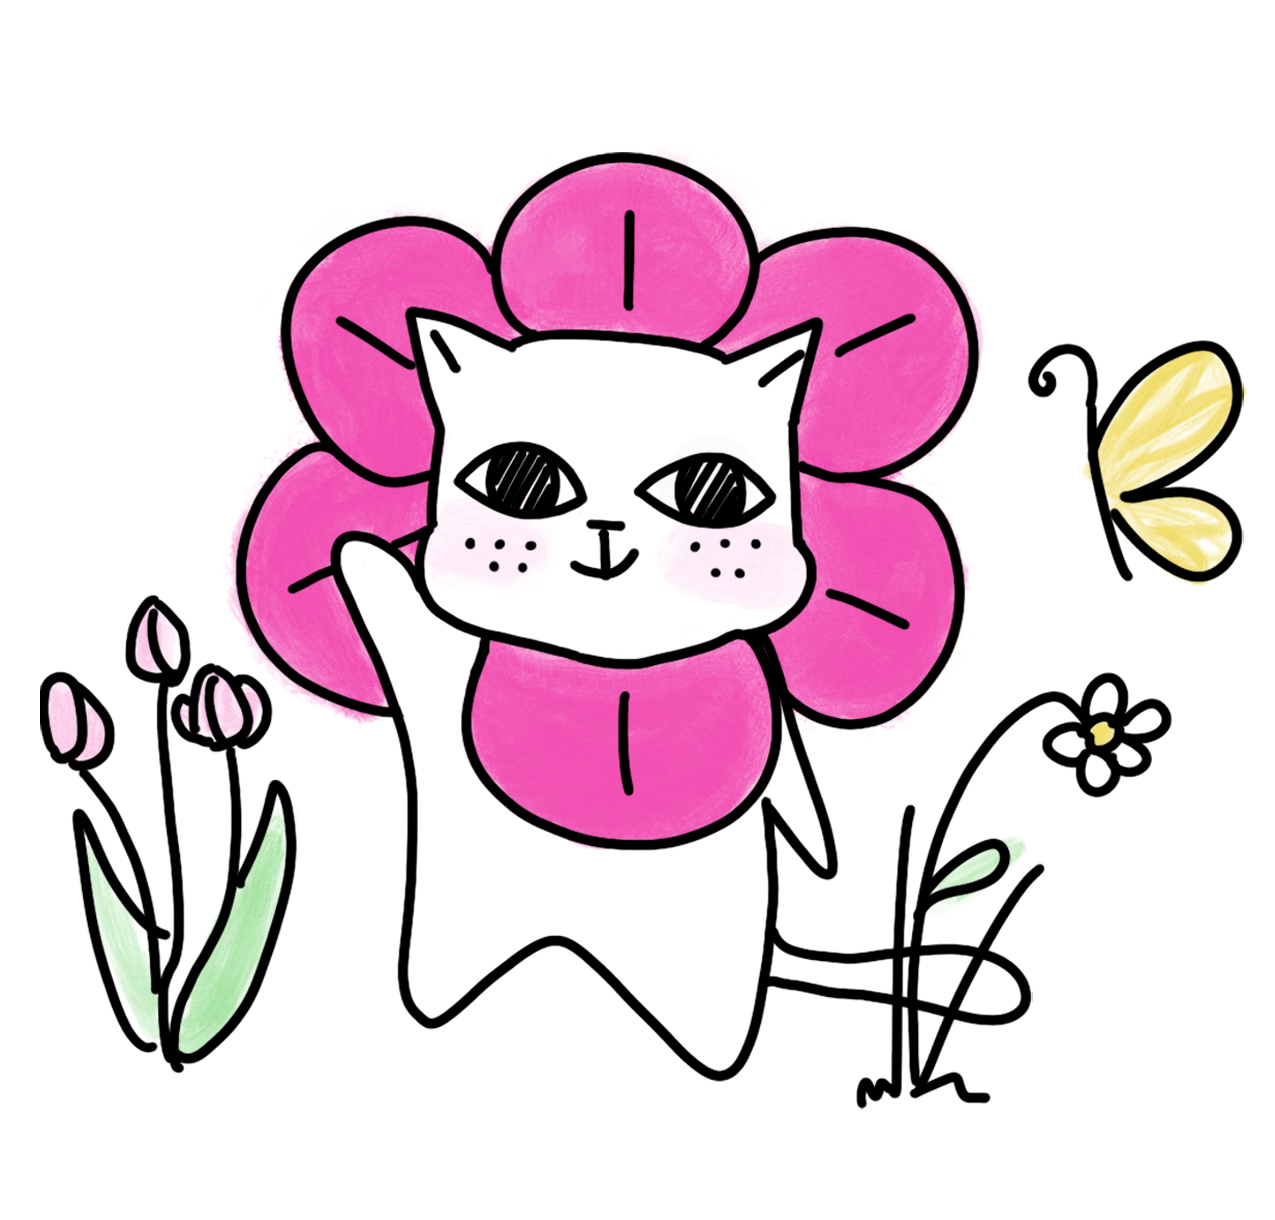
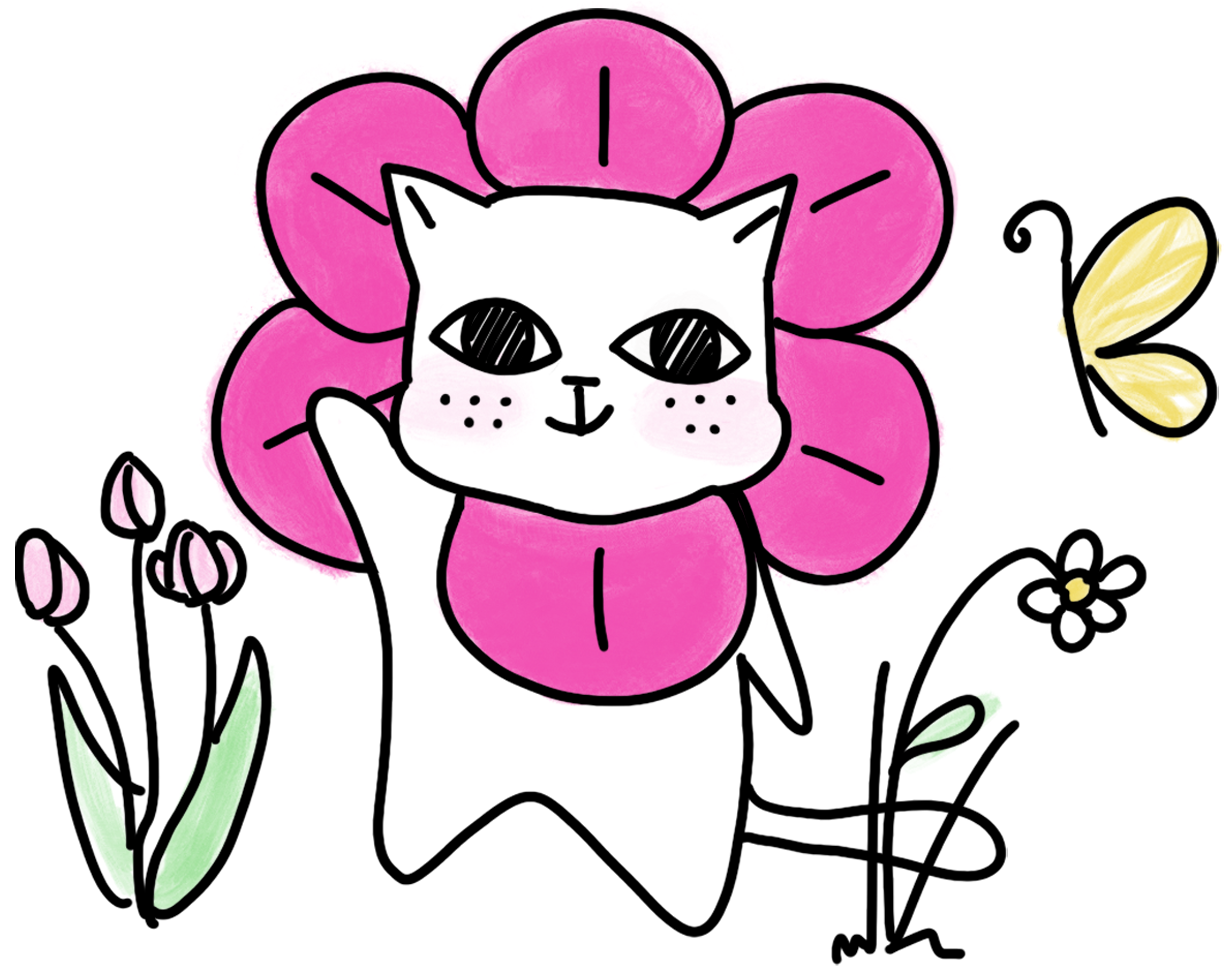
contact

diff --git a/about/about.html b/about/about.html
@@ -42,7 +42,7 @@
       }
 
       .contact-modal__panel {
-        width: min(90vw, 28rem);
+        width: min(92vw, 40rem) max(192vw, 80rem);
         border-radius: 1rem;
         background: var(--ui-color-n-000, #fdfcf7);
         color: var(--ui-color-n-025, #4d5051);
@@ -50,6 +50,13 @@
         padding: 2.25rem 2rem 1.75rem;
         position: relative;
         line-height: 1.5;
+      }
+
+      .contact-modal__header {
+        display: flex;
+        align-items: center;
+        gap: 0.75rem;
+        margin-bottom: 1.75rem;
       }
 
       .contact-modal__close {
@@ -64,15 +71,33 @@
       }
 
       .contact-modal__title {
-        margin-top: 0;
-        margin-bottom: 1.5rem;
-        font-size: 1.8rem;
+        margin: 0;
+        font-weight: 300;
+        font-size: 3rem;
+      }
+
+      .contact-modal__badge {
+        width: 1.75rem;
+        height: 1.75rem;
+        flex-shrink: 0;
       }
 
       .contact-modal__subtitle {
         margin-top: 0;
         margin-bottom: 1.25rem;
         color: var(--ui-color-n-300, #6b6b6b);
+      }
+
+      .contact-modal__content {
+        display: flex;
+        align-items: flex-start;
+        justify-content: space-between;
+        gap: 1.75rem;
+      }
+
+      .contact-modal__details {
+        flex: 1;
+        min-width: 0;
       }
 
       .contact-modal__list {
@@ -92,12 +117,15 @@
 
       .contact-modal__label {
         display: inline-flex;
-        justify-content: flex-start;
-        gap: 0rem;
+        align-items: baseline;
+        gap: 0;
         font-size: 0.75rem;
-        letter-spacing: 0.15em;
         text-transform: uppercase;
         color: var(--ui-color-n-300, #6b6b6b);
+      }
+
+      .contact-modal__label-text {
+        letter-spacing: 0.15em;
       }
 
       .contact-modal__icon {
@@ -105,16 +133,55 @@
         height: 1rem;
         flex-shrink: 0;
         color: currentColor;
+        margin-left: 0.5rem;
+        align-self: center;
+        transform: translateY(-0.1rem);
       }
 
       .contact-modal__value a {
+        font-family: var(--ui-typography-reeenie-beanie, "Reenie Beanie", cursive);
         color: inherit;
         font-weight: 600;
+        font-size: 2rem;
+        border-radius: 0.35rem;
+        padding: 0 0.25rem;
+        transition: background 0.2s ease, color 0.2s ease, box-shadow 0.2s ease;
+      }
+
+      .contact-modal__value a:hover,
+      .contact-modal__value a:focus-visible {
+        background: rgba(255, 223, 88, 0.4);
+        color: #5a4300;
+        box-shadow: 0 0 5px rgba(255, 223, 88, 0.9);
+        text-decoration: none;
+      }
+
+      .contact-modal__figure {
+        flex-shrink: 0;
+        margin: 0;
+        margin-bottom: -1rem;
+      }
+
+      .contact-modal__figure img {
+        display: block;
+        width: 14.5rem;
+        max-width: 32vw;
+        height: auto;
       }
 
       @media (max-width: 37.5rem) {
         .contact-modal__panel {
           padding: 1.75rem 1.5rem 1.5rem;
+        }
+        .contact-modal__content {
+          flex-direction: column;
+          align-items: center;
+        }
+        .contact-modal__details {
+          width: 100%;
+        }
+        .contact-modal__figure img {
+          width: min(70vw, 14rem);
         }
       }
     </style>
@@ -279,43 +346,51 @@
     <div id="contactModal" class="contact-modal" aria-hidden="true">
       <div class="contact-modal__panel" role="dialog" aria-modal="true" aria-labelledby="contactModalTitle">
         <button type="button" class="contact-modal__close" aria-label="Close contact panel" data-contact-close>&times;</button>
-        <h2 class="contact-modal__title" id="contactModalTitle">CONTACT ME</h2>
-        <!-- <p class="contact-modal__subtitle">Reach out directly any time—happy to chat about collaboration, research, or studio work.</p> -->
-        <ul class="contact-modal__list">
-          <li class="contact-modal__item">
-            <span class="contact-modal__label">
-              <span>Email</span>
-              <svg class="contact-modal__icon" viewBox="0 0 24 24" aria-hidden="true">
-                <path fill="currentColor" d="M3 6c0-1.1.9-2 2-2h14c1.1 0 2 .9 2 2v12c0 1.1-.9 2-2 2H5c-1.1 0-2-.9-2-2V6zm2 0v.01L12 12l7-5.99V6H5zm14 12V9.24l-6.35 4.56a1.5 1.5 0 0 1-1.3.2c-.16-.05-.32-.12-.47-.23L5 9.24V18h14z"/>
-              </svg>
-            </span>
-            <span class="contact-modal__value" data-contact-focus>
-              <a href="mailto:alyssa2.suh@gmail.com">alyssa2.suh@gmail.com</a>
-            </span>
-          </li>
-          <li class="contact-modal__item">
-            <span class="contact-modal__label">
-              <span>Phone</span>
-              <svg class="contact-modal__icon" viewBox="0 0 24 24" aria-hidden="true">
-                <path fill="currentColor" d="M6.62 10.79a15.5 15.5 0 0 0 6.59 6.59l2.2-2.2a1.5 1.5 0 0 1 1.45-.39c1.6.4 3.32.62 5.14.62c.83 0 1.5.67 1.5 1.5V21c0 .83-.67 1.5-1.5 1.5C9.16 22.5 1.5 14.84 1.5 4.5C1.5 3.67 2.17 3 3 3h3.29c.83 0 1.5.67 1.5 1.5c0 1.82.22 3.54.62 5.14a1.5 1.5 0 0 1-.39 1.45l-2.2 2.2z"/>
-              </svg>
-            </span>
-            <span class="contact-modal__value">
-              <a href="tel:+1-740-731-2524">(740) 731-2524</a>
-            </span>
-          </li>
-          <li class="contact-modal__item">
-            <span class="contact-modal__label">
-              <span>LinkedIn</span>
-              <svg class="contact-modal__icon" viewBox="0 0 24 24" aria-hidden="true">
-                <path fill="currentColor" d="M4.98 3.5c0 1.38-1.11 2.5-2.48 2.5C1.11 6 0 4.88 0 3.5S1.11 1 2.5 1s2.48 1.12 2.48 2.5zM.5 8h4V23h-4V8zm7.5 0h3.83v2.02h.05c.53-1 1.83-2.05 3.77-2.05c4.03 0 4.78 2.68 4.78 6.17V23h-4v-7.39c0-1.76-.03-4.02-2.45-4.02c-2.45 0-2.83 1.91-2.83 3.89V23h-4V8z"/>
-              </svg>
-            </span>
-            <span class="contact-modal__value">
-              <a href="https://www.linkedin.com/in/alyssasuh/" target="_blank" rel="noopener">linkedin.com/in/alyssasuh</a>
-            </span>
-          </li>
-        </ul>
+        <div class="contact-modal__header">
+          <h2 class="contact-modal__title" id="contactModalTitle">CONTACT ME</h2>
+        </div>
+        <div class="contact-modal__content">
+          <div class="contact-modal__details">
+            <ul class="contact-modal__list">
+              <li class="contact-modal__item">
+                <span class="contact-modal__label">
+                  <span class="contact-modal__label-text">Email</span>
+                  <svg class="contact-modal__icon" viewBox="0 0 24 24" aria-hidden="true">
+                    <path fill="currentColor" d="M3 6c0-1.1.9-2 2-2h14c1.1 0 2 .9 2 2v12c0 1.1-.9 2-2 2H5c-1.1 0-2-.9-2-2V6zm2 0v.01L12 12l7-5.99V6H5zm14 12V9.24l-6.35 4.56a1.5 1.5 0 0 1-1.3.2c-.16-.05-.32-.12-.47-.23L5 9.24V18h14z"/>
+                  </svg>
+                </span>
+                <span class="contact-modal__value" data-contact-focus>
+                  <a href="mailto:alyssa2.suh@gmail.com">alyssa2.suh@gmail.com</a>
+                </span>
+              </li>
+              <li class="contact-modal__item">
+                <span class="contact-modal__label">
+                  <span class="contact-modal__label-text">Phone</span>
+                  <svg class="contact-modal__icon" viewBox="0 0 24 24" aria-hidden="true">
+                    <path fill="currentColor" d="M6.62 10.79a15.5 15.5 0 0 0 6.59 6.59l2.2-2.2a1.5 1.5 0 0 1 1.45-.39c1.6.4 3.32.62 5.14.62c.83 0 1.5.67 1.5 1.5V21c0 .83-.67 1.5-1.5 1.5C9.16 22.5 1.5 14.84 1.5 4.5C1.5 3.67 2.17 3 3 3h3.29c.83 0 1.5.67 1.5 1.5c0 1.82.22 3.54.62 5.14a1.5 1.5 0 0 1-.39 1.45l-2.2 2.2z"/>
+                  </svg>
+                </span>
+                <span class="contact-modal__value">
+                  <a href="tel:+1-740-731-2524">(740) 731-2524</a>
+                </span>
+              </li>
+              <li class="contact-modal__item">
+                <span class="contact-modal__label">
+                  <span class="contact-modal__label-text">LinkedIn</span>
+                  <svg class="contact-modal__icon" viewBox="0 0 24 24" aria-hidden="true">
+                    <path fill="currentColor" d="M4.98 3.5c0 1.38-1.11 2.5-2.48 2.5C1.11 6 0 4.88 0 3.5S1.11 1 2.5 1s2.48 1.12 2.48 2.5zM.5 8h4V23h-4V8zm7.5 0h3.83v2.02h.05c.53-1 1.83-2.05 3.77-2.05c4.03 0 4.78 2.68 4.78 6.17V23h-4v-7.39c0-1.76-.03-4.02-2.45-4.02c-2.45 0-2.83 1.91-2.83 3.89V23h-4V8z"/>
+                  </svg>
+                </span>
+                <span class="contact-modal__value">
+                  <a href="https://www.linkedin.com/in/alyssasuh/" target="_blank" rel="noopener">linkedin.com/in/alyssasuh</a>
+                </span>
+              </li>
+            </ul>
+          </div>
+          <figure class="contact-modal__figure">
+            <img src="../About.png" alt="Hand-drawn cat illustration from Alyssa" loading="lazy">
+          </figure>
+        </div>
       </div>
     </div>
     <script>

diff --git a/style.css b/style.css
@@ -527,14 +527,16 @@ img.align-right {
   font-weight: 600;
   text-decoration: none;
   border-radius: 0.35rem;
-  transition: background 0.2s ease, color 0.2s ease;
+  transition: background 0.2s ease, color 0.2s ease, box-shadow 0.2s ease;
+  box-shadow: 0 0 0 rgba(255, 223, 88, 0);
 }
 
 .highlight-link:hover,
 .highlight-link:focus-visible {
-  background: rgba(10, 78, 165, 0.22);
-  color: #06306a;
-  text-decoration: underline;
+  background: rgba(255, 223, 88, 0.4);
+  color: #5a4300;
+  text-decoration: none;
+  box-shadow: 0 0 4px rgba(91, 78, 21, 0.431);
 }
 
 /*--------------------------------------------------------------
